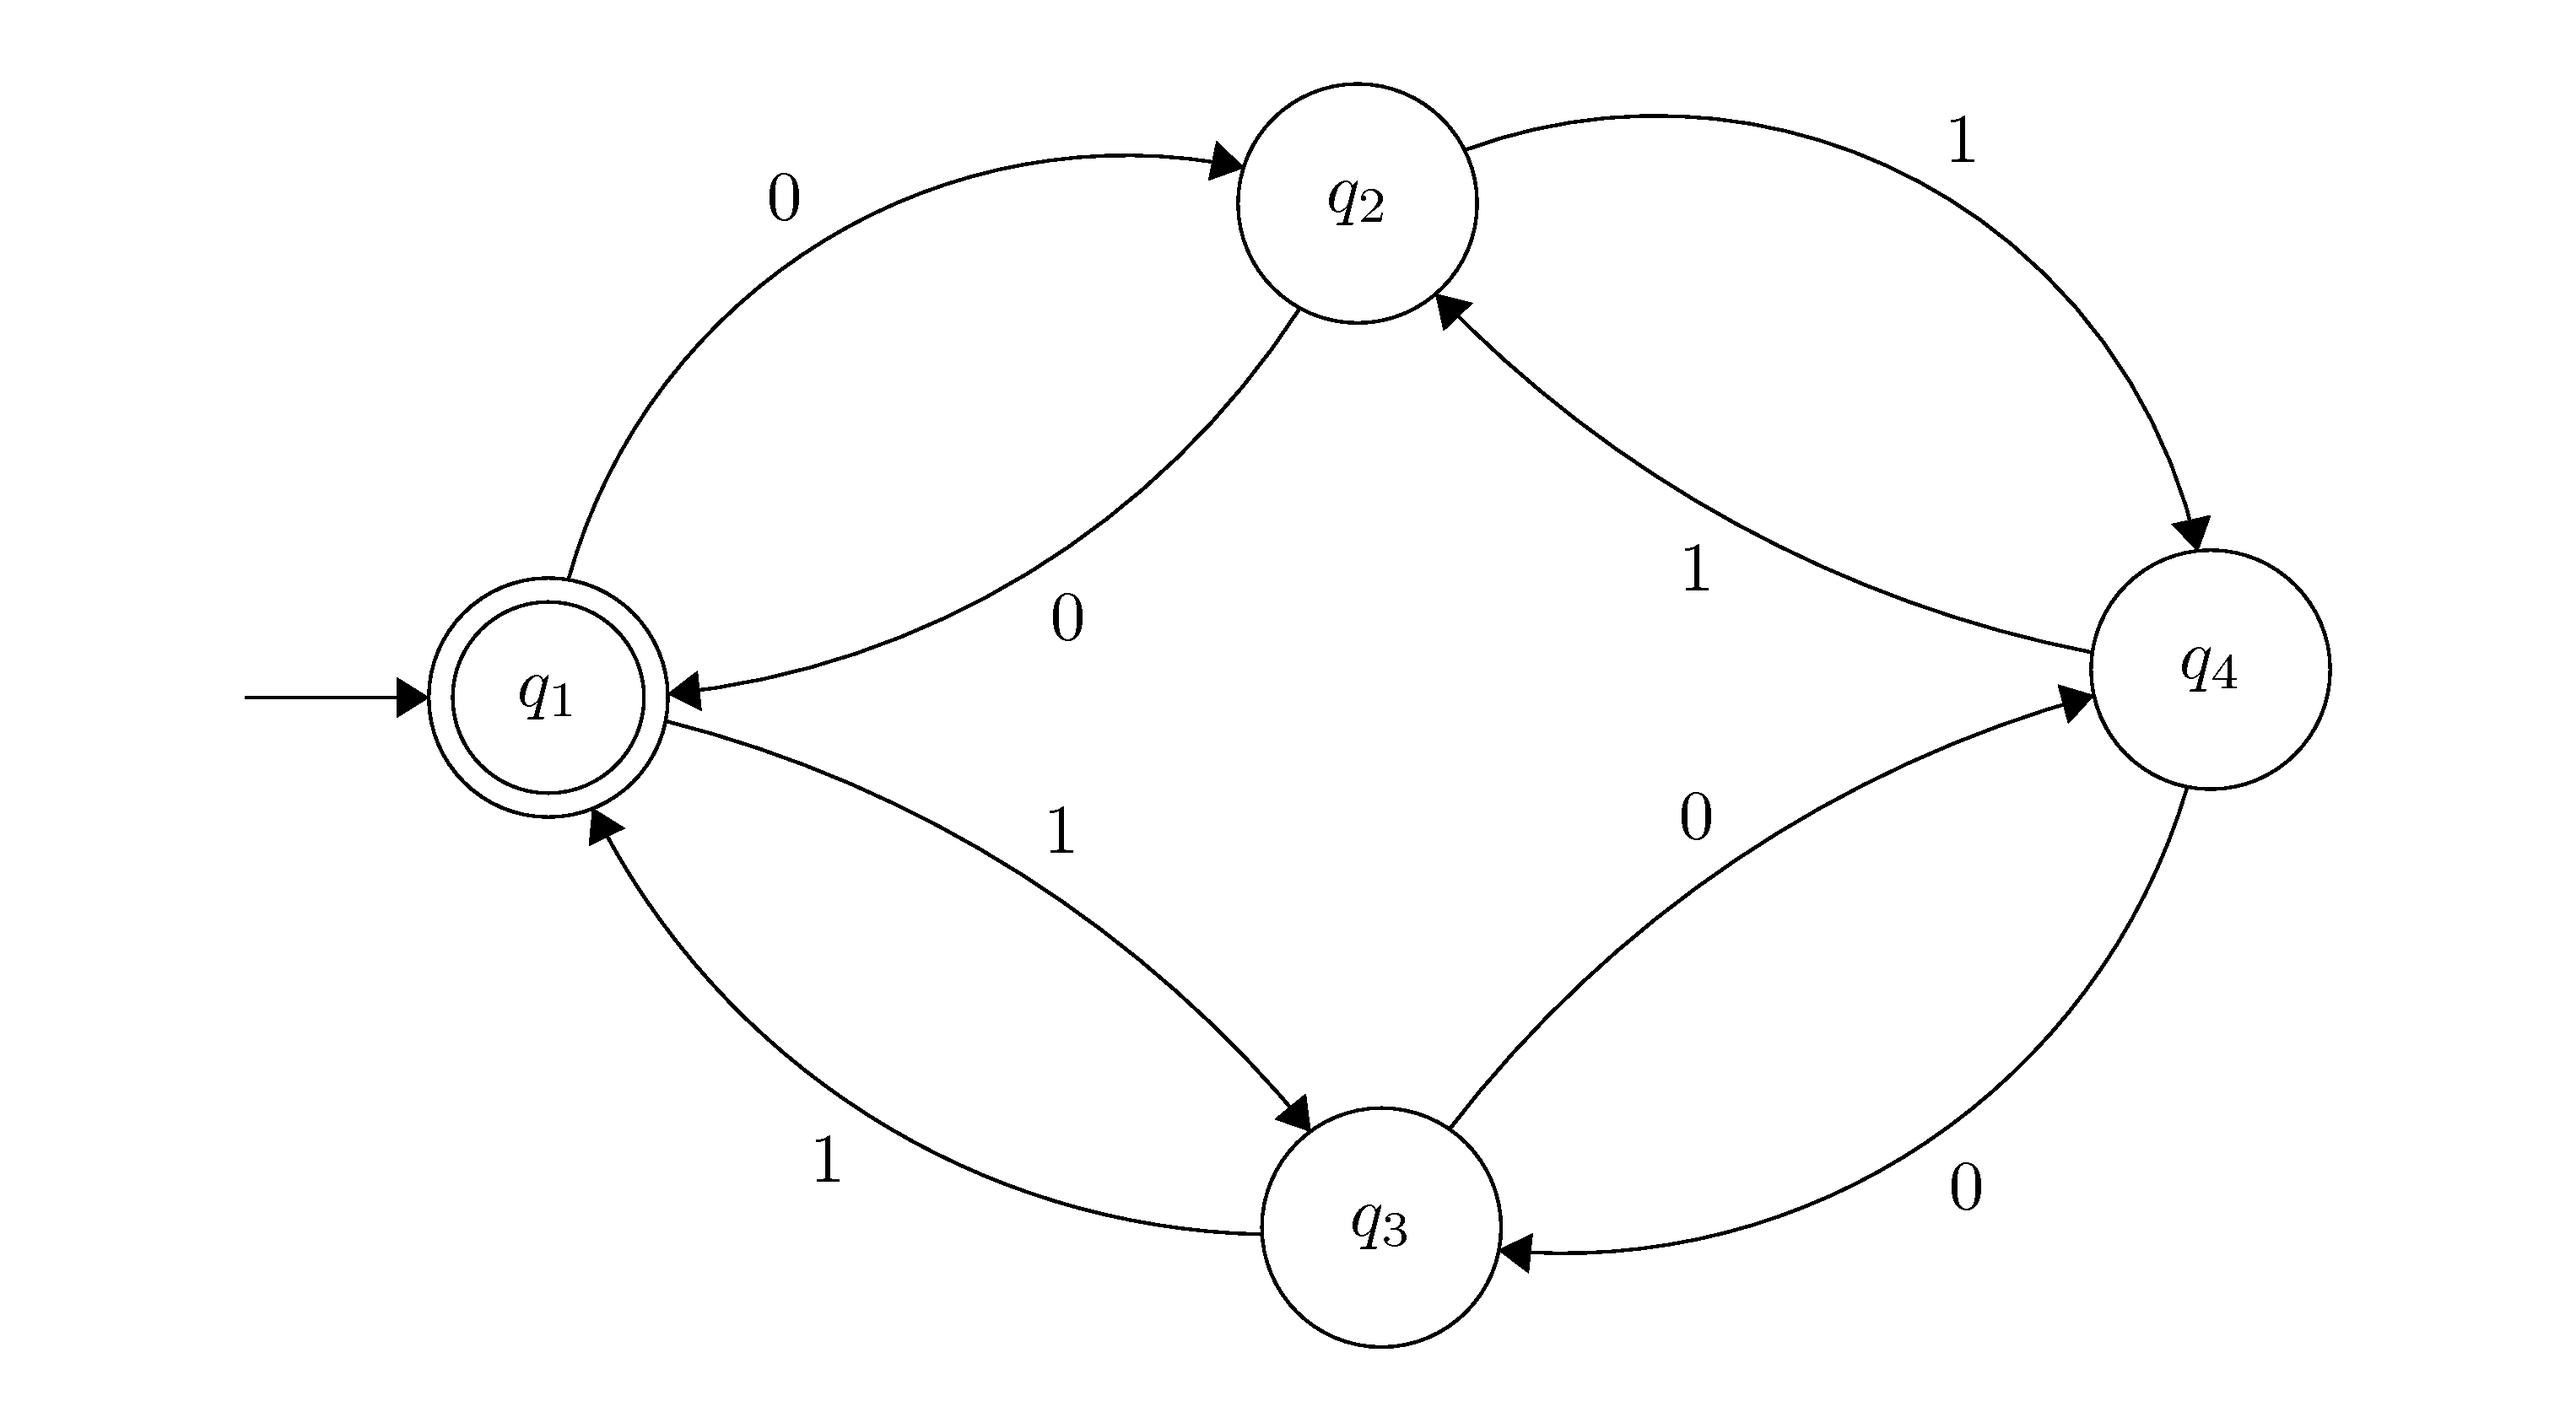
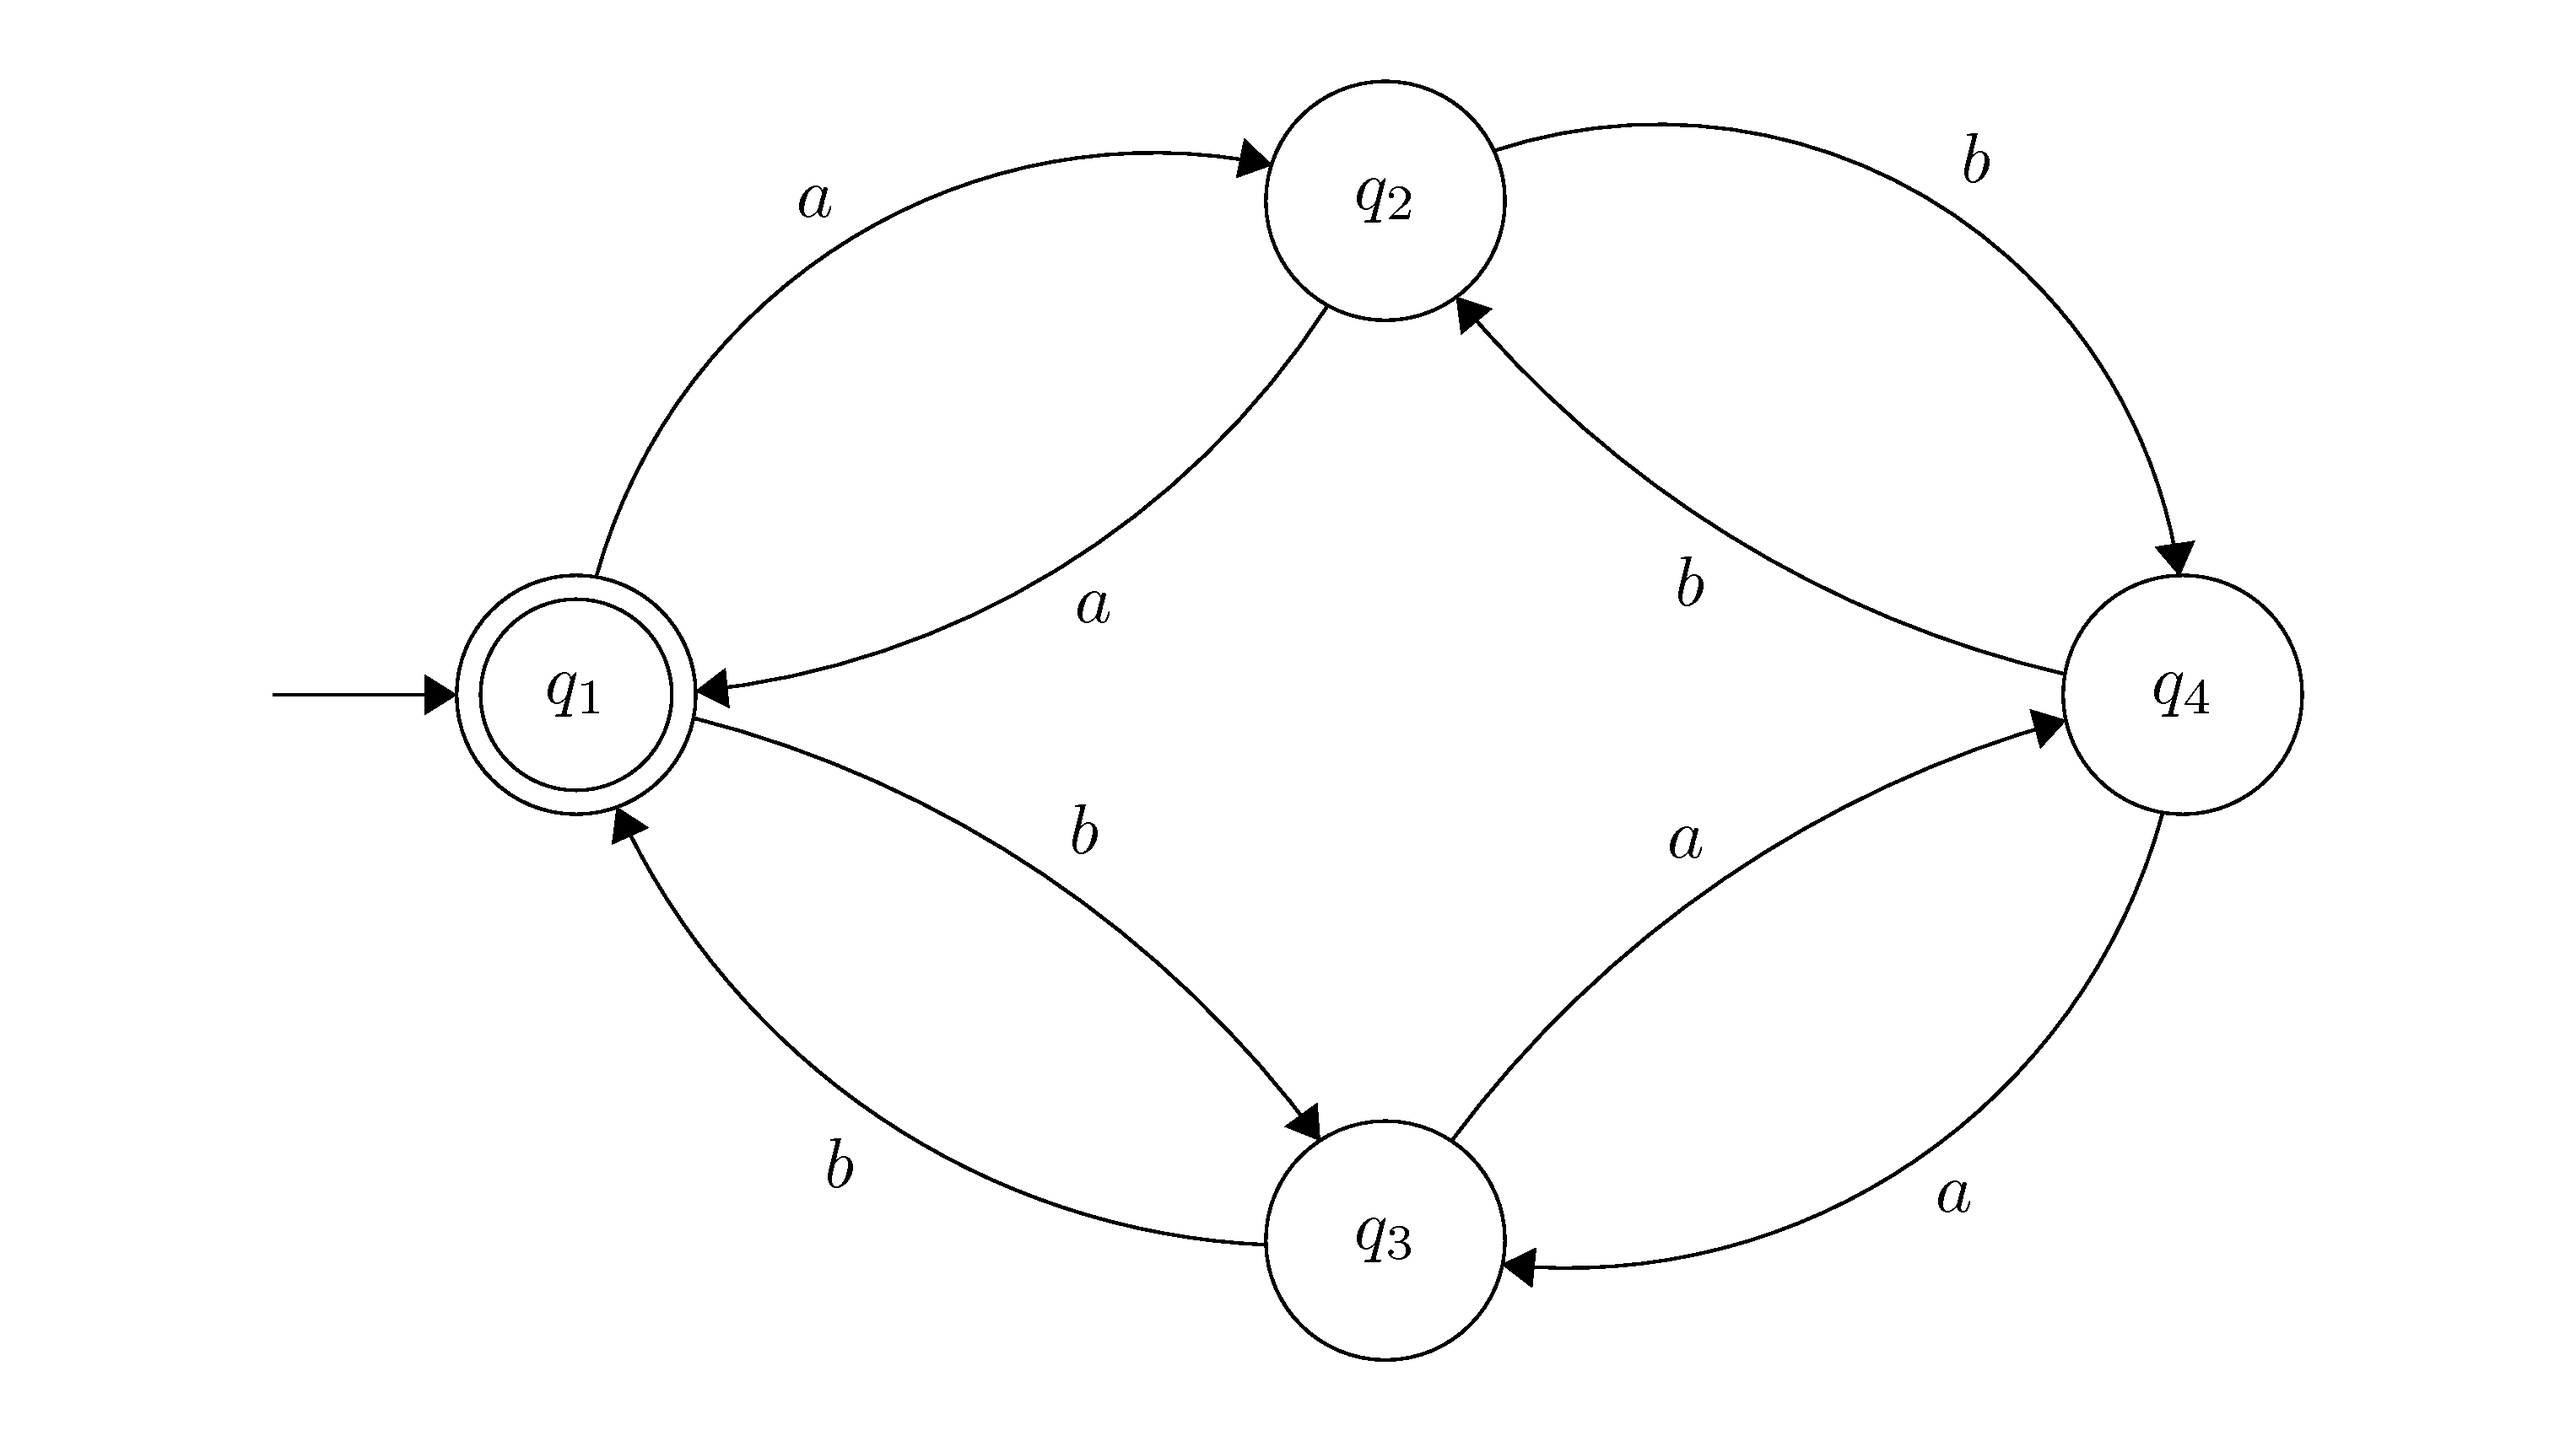
Fixed typo in README

diff --git a/README.md b/README.md
@@ -21,7 +21,7 @@ $ python3 -m unittest discover
 Since inferrer is a library, you can import and use it in your own code, but the library
 is also exposed via a CLI:
 ```bash
-$ python3 cli.py --help
+$ python3 inferrer_cli.py --help
 ```
 
 Documentation for the library is located in docs/public/index.html.
@@ -36,7 +36,7 @@ strings and a file negative_01.txt, which contains negative example strings.
 
 We are going to try to learn this regular language using the RPNI algorithm:
 ```bash
-python3 cli.py resources/positive_01.txt resources/negative_01.txt rpni
+python3 inferrer_cli.py resources/positive_01.txt resources/negative_01.txt rpni
 ```
 RPNI then builds the following DFA
 
@@ -53,7 +53,7 @@ We want to try and learn the language L, where L is a language over the alphabet
 
 We are going to try to learn this regular language using the RPNI algorithm:
 ```bash
-python3 cli.py resources/positive_02.txt resources/negative_02.txt rpni
+python3 inferrer_cli.py resources/positive_02.txt resources/negative_02.txt rpni
 ```
 RPNI then builds the following DFA
 
@@ -62,7 +62,7 @@ RPNI then builds the following DFA
 which is the correct grammar and thus we have successfully inferred the regular language L.
 This DFA is then converted to the following regular expression:
 ```text
-((10(00)*1|0)(1(00)*1)*(1(00)*01|0)|10(00)*01|11)*
+((ba(aa)*b|a)(b(aa)*b)*(b(aa)*ab|a)|ba(aa)*ab|bb)*
 ```
 
 ## Resources
